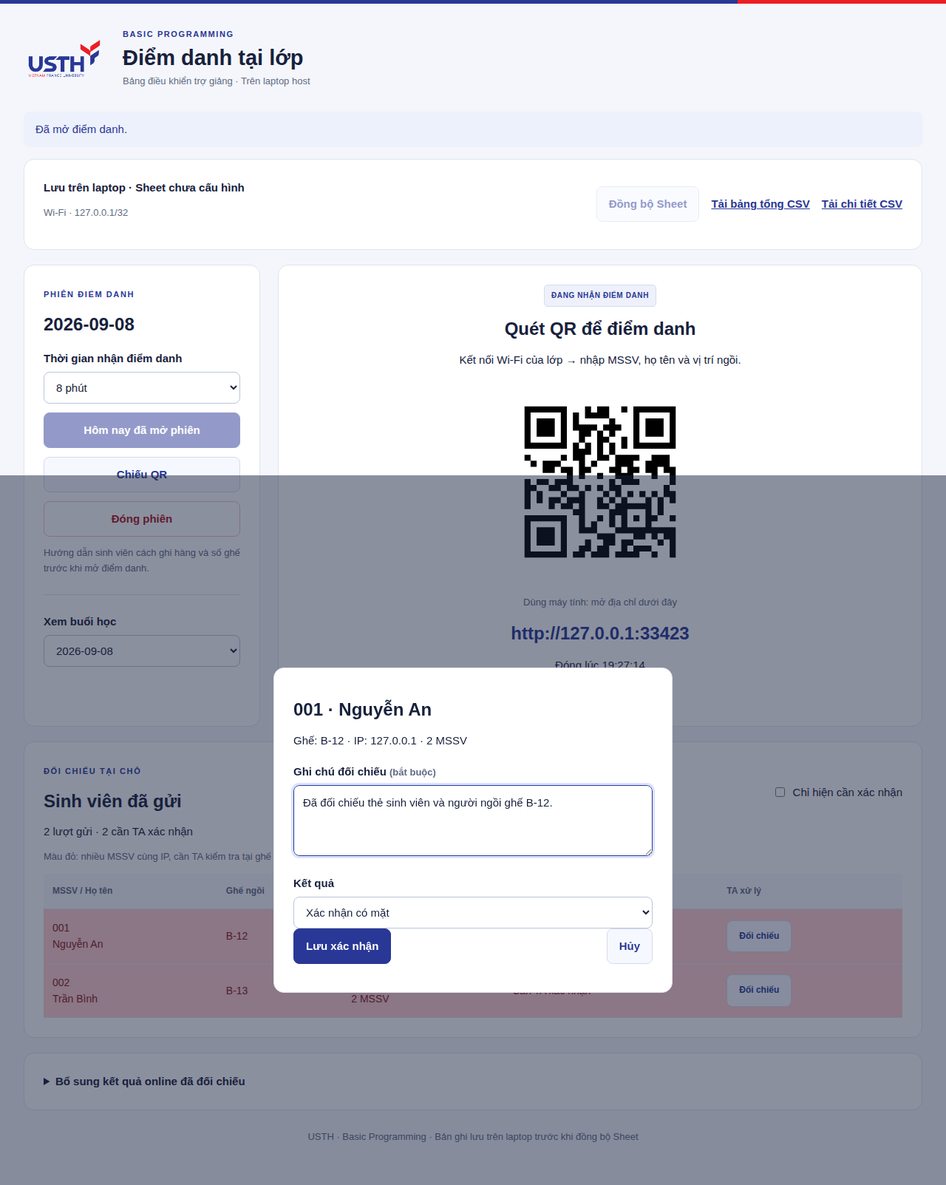
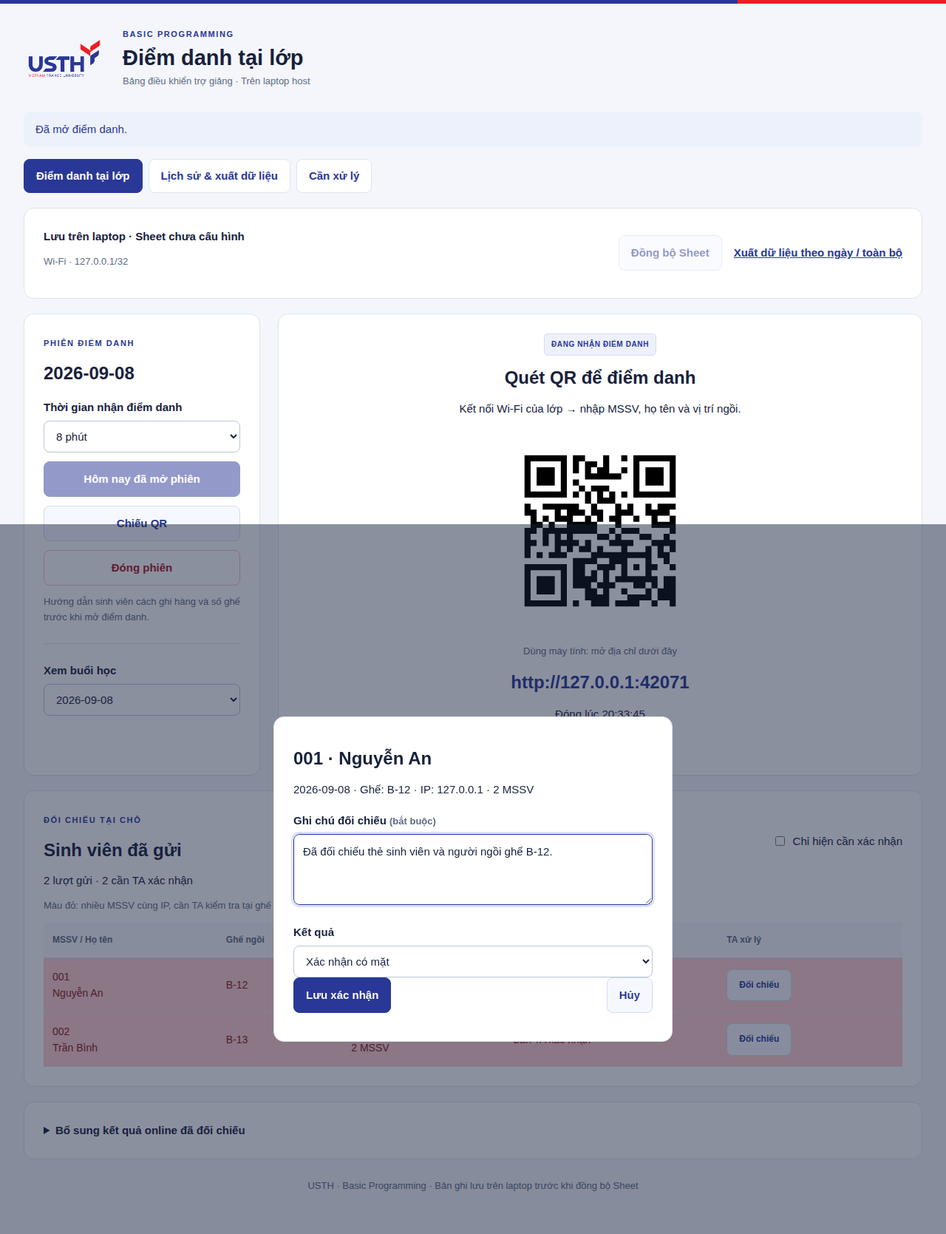
Add daily attendance exports and a dedicated review screen

diff --git a/web/lan-public/admin.js b/web/lan-public/admin.js
@@ -1,20 +1,66 @@
 'use strict';
-const $=id=>document.getElementById(id);let dashboard,selected='',entries=[],reviewing,busy=false,loadedURL='';
+const $=id=>document.getElementById(id);
+let dashboard,selected='',entries=[],reviewing,busy=false,refreshQueued=false,loadedURL='',screen='attendance';
 function notice(text,error=false){$('notice').textContent=text;$('notice').className=error?'notice error':'notice';}
 async function api(url,data){const response=await fetch(url,{cache:'no-store',signal:AbortSignal.timeout(20000),...(data?{method:'POST',headers:{'Content-Type':'application/json','X-CSRF-Token':dashboard?.csrf||''},body:JSON.stringify(data)}:{})});const body=await response.json();if(!response.ok)throw Error(body.message||'Không xử lý được yêu cầu.');return body;}
 function active(s){return s&&s.mode==='OFFLINE'&&!s.closed_at&&s.ends_at>dashboard.serverTime;}
-function project(){document.body.classList.add('projecting');$('exit-project').hidden=false;window.scrollTo(0,0);}
-function renderEntries(){
-  $('entries').replaceChildren();const pending=entries.filter(e=>e.status==='PENDING').length;
-  $('review-summary').textContent=`${entries.length} lượt gửi · ${pending} cần TA xác nhận`;
-  for(const entry of entries.filter(e=>!$('only-pending').checked||e.status==='PENDING')){
-    const tr=document.createElement('tr');if(entry.status==='PENDING')tr.className='flagged';
-    for(const value of [entry.student_id+'\n'+entry.name,entry.seat,entry.ip+'\n'+entry.peers+' MSSV',entry.statusLabel]){const td=document.createElement('td');td.textContent=value;tr.append(td);}
-    const td=document.createElement('td'),button=document.createElement('button');button.className='secondary';button.textContent='Đối chiếu';button.addEventListener('click',()=>{
-      reviewing=entry;$('review-title').textContent=entry.student_id+' · '+entry.name;$('review-detail').textContent='Ghế: '+entry.seat+' · IP: '+entry.ip+' · '+entry.peers+' MSSV';$('review-note').value=entry.review_note;$('review-result').value=entry.status==='REJECTED'?'REJECTED':'CONFIRMED';$('review-error').textContent='';$('review-dialog').showModal();
-    });td.append(button);tr.append(td);$('entries').append(tr);
+function showScreen(){
+  const next=location.hash.slice(1);screen=['attendance','history','issues'].includes(next)?next:'attendance';
+  for(const panel of document.querySelectorAll('[data-screen]'))panel.hidden=panel.dataset.screen!==screen;
+  for(const link of document.querySelectorAll('.screen-nav a')){if(link.hash==='#'+screen)link.setAttribute('aria-current','page');else link.removeAttribute('aria-current');}
+  if(screen!=='attendance'){document.body.classList.remove('projecting');$('exit-project').hidden=true;}
+}
+function project(){location.hash='attendance';showScreen();document.body.classList.add('projecting');$('exit-project').hidden=false;window.scrollTo(0,0);}
+function openReview(entry){
+  reviewing=entry;$('review-title').textContent=entry.student_id+' · '+entry.name;
+  $('review-detail').textContent=entry.date+' · Ghế: '+entry.seat+' · IP: '+entry.ip+' · '+entry.peers+' MSSV';
+  $('review-note').value=entry.review_note;$('review-result').value=entry.status==='REJECTED'?'REJECTED':'CONFIRMED';$('review-error').textContent='';$('review-dialog').showModal();
+}
+function renderTable(id,rows,dated=false){
+  const table=$(id);table.replaceChildren();
+  for(const entry of rows){
+    const tr=document.createElement('tr');tr.dataset.entryId=entry.id;
+    if(entry.status==='PENDING')tr.className='flagged';else if(entry.status==='REJECTED')tr.className='rejected';
+    const values=[entry.student_id+'\n'+entry.name,entry.seat,entry.ip+'\n'+entry.peers+' MSSV',entry.statusLabel];
+    if(dated){values.unshift(entry.date);values.push(entry.reason?(entry.reason+(entry.review_note&&entry.review_note!==entry.reason?'\nGhi chú trước: '+entry.review_note:'')):(entry.review_note||'—'));}
+    for(const value of values){const td=document.createElement('td');td.textContent=value;tr.append(td);}
+    const td=document.createElement('td'),button=document.createElement('button');button.className='secondary';button.textContent='Đối chiếu';button.addEventListener('click',()=>openReview(entry));td.append(button);tr.append(td);table.append(tr);
   }
-  if(!entries.length){const tr=document.createElement('tr'),td=document.createElement('td');td.colSpan=5;td.textContent='Chưa có lượt gửi trong phiên này.';tr.append(td);$('entries').append(tr);}
+  if(!rows.length){const tr=document.createElement('tr'),td=document.createElement('td');td.colSpan=dated?7:5;td.textContent='Không có bản ghi phù hợp.';tr.append(td);table.append(tr);}
+}
+function renderEntries(){
+  $('review-summary').textContent=`${entries.length} lượt gửi · ${entries.filter(e=>e.status==='PENDING').length} cần TA xác nhận`;
+  renderTable('entries',entries.filter(e=>!$('only-pending').checked||e.status==='PENDING'));
+}
+function fillDates(id){
+  const select=$(id),dates=[...new Set(dashboard.sessions.map(s=>s.date))].sort().reverse(),key=dates.join(',');
+  if(select.dataset.dates===key)return;
+  const previous=select.value;select.replaceChildren(...['',...dates].map(date=>{const option=document.createElement('option');option.value=date;option.textContent=date||'Tất cả các ngày';return option;}));
+  select.value=dates.includes(previous)?previous:'';select.dataset.dates=key;
+}
+function downloadLink(id,url){
+  const link=$(id);if(url){link.href=url;link.removeAttribute('aria-disabled');}else{link.removeAttribute('href');link.setAttribute('aria-disabled','true');}
+}
+function markLoading(){
+  if(screen==='history'){for(const id of ['history-summary-export','history-detail-export'])downloadLink(id);$('history-summary').textContent='Đang tải dữ liệu…';}
+  if(screen==='issues'){downloadLink('issues-export');$('issues-summary').textContent='Đang tải danh sách…';}
+}
+async function refreshReports(){
+  fillDates('history-date');fillDates('issues-date');
+  if(screen==='history'){
+    const date=$('history-date').value,query=new URLSearchParams({date}).toString(),data=await api('/api/history?'+query);
+    if(screen!=='history'||date!==$('history-date').value)return;
+    renderTable('history-entries',data.entries,true);
+    $('history-summary').textContent=(date||'Tất cả các ngày')+' · '+data.entries.length+' lượt gửi offline · '+new Set(data.entries.map(e=>e.student_id)).size+' MSSV';
+    downloadLink('history-summary-export','/api/export.csv?'+query);downloadLink('history-detail-export','/api/detail.csv?'+query);
+  }else if(screen==='issues'){
+    const date=$('issues-date').value,status=$('issues-status').value,query=new URLSearchParams({date,status}).toString(),data=await api('/api/issues?'+query);
+    if(screen!=='issues'||date!==$('issues-date').value||status!==$('issues-status').value)return;
+    renderTable('issues-entries',data.entries,true);
+    $('issues-pending').textContent=data.counts.pending+' chờ đối chiếu';$('issues-rejected').textContent=data.counts.rejected+' không hợp lệ';
+    $('issues-summary').textContent=(date||'Tất cả các ngày')+' · '+data.entries.length+' bản ghi đang hiển thị · '+new Set(data.entries.map(e=>e.student_id)).size+' MSSV';
+    downloadLink('issues-export','/api/issues.csv?'+query);
+  }
 }
 async function refresh(){
   dashboard=await api('/api/dashboard');$('today').textContent=dashboard.today;$('online-date').value||=dashboard.today;
@@ -29,16 +75,20 @@ async function refresh(){
   const sync=dashboard.sync;$('sync').disabled=!sync.enabled||sync.busy;
   $('sync-state').textContent=!sync.enabled?'Lưu trên laptop · Sheet chưa cấu hình':sync.error?'Sheet chưa đồng bộ được · dữ liệu đã lưu trên laptop':sync.pending?'Đang chờ đồng bộ Sheet':'Sheet đã đồng bộ';
   $('network').textContent=dashboard.network+' · '+dashboard.cidrs.join(', ');
-  entries=selected?(await api('/api/entries?session='+encodeURIComponent(selected))).entries:[];renderEntries();
+  if(screen==='attendance'){entries=selected?(await api('/api/entries?session='+encodeURIComponent(selected))).entries:[];renderEntries();}
+  await refreshReports();
 }
-async function action(fn){if(busy)return;busy=true;try{await fn();await refresh();}catch(error){notice(error.message,true);}finally{busy=false;}}
+async function action(fn){if(busy)return;busy=true;try{await fn();await refresh();}catch(error){notice(error.message,true);}finally{busy=false;if(refreshQueued){refreshQueued=false;requestRefresh();}}}
+function requestRefresh(){markLoading();if(busy){refreshQueued=true;return;}void action(async()=>{});}
 $('open').addEventListener('click',()=>action(async()=>{const result=await api('/api/sessions',{minutes:Number($('minutes').value)});selected=result.session.id;await refresh();notice('Đã mở điểm danh.');project();}));
 $('close').addEventListener('click',()=>action(async()=>{await api('/api/sessions/'+selected+'/close',{});notice('Đã đóng phiên điểm danh.');}));
 $('project').addEventListener('click',project);$('exit-project').addEventListener('click',()=>{document.body.classList.remove('projecting');$('exit-project').hidden=true;});
-$('session').addEventListener('change',()=>action(async()=>{selected=$('session').value;}));$('only-pending').addEventListener('change',renderEntries);
+$('session').addEventListener('change',()=>{selected=$('session').value;requestRefresh();});$('only-pending').addEventListener('change',renderEntries);
+for(const id of ['history-date','issues-date','issues-status'])$(id).addEventListener('change',requestRefresh);
+window.addEventListener('hashchange',()=>{showScreen();requestRefresh();});
 $('sync').addEventListener('click',()=>action(async()=>{await api('/api/sync',{});notice('Đã yêu cầu đồng bộ Sheet.');}));
 $('cancel-review').addEventListener('click',()=>$('review-dialog').close());
 $('review-form').addEventListener('submit',async event=>{event.preventDefault();$('save-review').disabled=true;try{await api('/api/entries/'+reviewing.id+'/review',{review:$('review-result').value,note:$('review-note').value,peers:reviewing.peers});$('review-dialog').close();await refresh();notice('Đã lưu kết quả đối chiếu của TA.');}catch(error){$('review-error').textContent=error.message;}finally{$('save-review').disabled=false;}});
 $('import-roster').addEventListener('click',()=>action(async()=>{const file=$('roster').files[0];if(!file)throw Error('Chọn file CSV danh sách lớp.');const result=await api('/api/roster',{csv:await file.text()});notice('Đã nhập '+result.count+' sinh viên.');}));
 $('import-online').addEventListener('click',()=>action(async()=>{const result=await api('/api/online',{date:$('online-date').value,list:$('online-list').value,evidence:$('online-evidence').value});notice('Đã bổ sung '+result.count+' kết quả online.');}));
-void action(async()=>{});setInterval(()=>{if(!busy&&!$('review-dialog').open)void action(async()=>{});},10000);
+showScreen();requestRefresh();setInterval(()=>{if(!busy&&!$('review-dialog').open)requestRefresh();},10000);

diff --git a/web/lan-public/admin.html b/web/lan-public/admin.html
@@ -1,11 +1,23 @@
 <!doctype html><html lang="vi"><head><meta charset="utf-8"><meta name="viewport" content="width=device-width,initial-scale=1"><title>TA · BP Attendance · USTH</title><link rel="stylesheet" href="/style.css"><script src="/qr.js" defer></script><script src="/admin.js" defer></script></head>
 <body><main><header><img src="/assets/usth-logo.png" alt="USTH — Vietnam France University"><div><span class="eyebrow">BASIC PROGRAMMING</span><h1>Điểm danh tại lớp</h1><p class="muted">Bảng điều khiển trợ giảng · Trên laptop host</p></div><button id="exit-project" class="secondary" hidden>Về bảng điều khiển</button></header>
 <div id="notice" role="status" aria-live="polite"></div>
-<div class="controls card status-bar"><div><strong id="sync-state">Đang kết nối…</strong><p id="network" class="muted"></p></div><div class="actions"><button id="sync" class="secondary">Đồng bộ Sheet</button><a href="/api/export.csv">Tải bảng tổng CSV</a><a href="/api/detail.csv">Tải chi tiết CSV</a></div></div>
+<nav class="screen-nav controls" aria-label="Quản lý điểm danh"><a href="#attendance" aria-current="page">Điểm danh tại lớp</a><a href="#history">Lịch sử &amp; xuất dữ liệu</a><a href="#issues">Cần xử lý</a></nav>
+<div class="controls card status-bar"><div><strong id="sync-state">Đang kết nối…</strong><p id="network" class="muted"></p></div><div class="actions"><button id="sync" class="secondary">Đồng bộ Sheet</button><a href="#history">Xuất dữ liệu theo ngày / toàn bộ</a></div></div>
+<div id="screen-attendance" data-screen="attendance">
 <div class="layout"><section class="card controls"><span class="eyebrow">PHIÊN ĐIỂM DANH</span><h2 id="today">Buổi học hôm nay</h2><label for="minutes">Thời gian nhận điểm danh</label><select id="minutes"><option value="5">5 phút</option><option value="8" selected>8 phút</option><option value="10">10 phút</option><option value="15">15 phút</option><option value="30">30 phút</option></select><button id="open">Mở QR điểm danh</button><button id="project" class="secondary" hidden>Chiếu QR</button><button id="close" class="danger" disabled>Đóng phiên</button><p class="muted">Hướng dẫn sinh viên cách ghi hàng và số ghế trước khi mở điểm danh.</p><hr><label for="session">Xem buổi học</label><select id="session"></select></section>
 <section class="card projector"><span class="badge" id="session-state">CHƯA MỞ PHIÊN</span><h2>Quét QR để điểm danh</h2><p>Kết nối Wi-Fi của lớp → nhập MSSV, họ tên và vị trí ngồi.</p><div id="qr"></div><p class="muted">Dùng máy tính: mở địa chỉ dưới đây</p><strong id="student-url" class="student-url"></strong><p id="session-end"></p><strong id="count" class="count">0 sinh viên</strong></section></div>
 <section class="card controls"><div class="section-top"><div><span class="eyebrow">ĐỐI CHIẾU TẠI CHỖ</span><h2>Sinh viên đã gửi</h2></div><label class="checkbox"><input type="checkbox" id="only-pending"> Chỉ hiện cần xác nhận</label></div><p id="review-summary"></p><p class="muted">Màu đỏ: nhiều MSSV cùng IP, cần TA kiểm tra tại ghế ngồi. Cùng IP có thể do mạng dùng chung; đây là cờ đối chiếu.</p><div class="table-wrap"><table><thead><tr><th>MSSV / Họ tên</th><th>Ghế ngồi</th><th>IP / Số MSSV</th><th>Trạng thái</th><th>TA xử lý</th></tr></thead><tbody id="entries"></tbody></table></div></section>
 <details class="card controls"><summary>Bổ sung kết quả online đã đối chiếu</summary><p>Nhập danh sách lớp có email trước khi bổ sung MSSV online. Phần offline không yêu cầu danh sách này.</p><label for="roster">CSV danh sách lớp · MSSV,Họ tên,Email trường</label><input type="file" id="roster" accept=".csv"><button id="import-roster" class="secondary">Nhập danh sách lớp</button><label for="online-date">Ngày học</label><input type="date" id="online-date"><label for="online-list">MSSV online · mỗi dòng một MSSV</label><textarea id="online-list" rows="4"></textarea><label for="online-evidence">Nguồn đối chiếu</label><input id="online-evidence" placeholder="Link kết quả Google Form, buổi học…"><button id="import-online" class="secondary">Bổ sung online</button></details>
+</div>
+<section id="screen-history" class="card controls" data-screen="history" hidden><span class="eyebrow">LƯU TRỮ THEO NGÀY HỌC</span><h2>Lịch sử &amp; xuất dữ liệu</h2><p>Chọn một ngày để xem và xuất riêng, hoặc chọn tất cả các ngày để lấy toàn bộ dữ liệu.</p>
+<div class="filters"><div><label for="history-date">Ngày học</label><select id="history-date"><option value="">Tất cả các ngày</option></select></div><div class="actions"><a id="history-summary-export" class="button-link" href="/api/export.csv">Tải bảng tổng CSV</a><a id="history-detail-export" class="button-link secondary" href="/api/detail.csv">Tải chi tiết offline CSV</a></div></div>
+<p id="history-summary" role="status"></p><p class="muted">Bảng dưới hiển thị lượt gửi offline. Bảng tổng CSV có cả kết quả online đã bổ sung. File theo ngày chỉ chứa kết quả của ngày đã chọn.</p>
+<div class="table-wrap"><table><thead><tr><th>Ngày học</th><th>MSSV / Họ tên</th><th>Ghế</th><th>IP / Số MSSV</th><th>Trạng thái</th><th>Ghi chú TA</th><th>TA xử lý</th></tr></thead><tbody id="history-entries"></tbody></table></div></section>
+<section id="screen-issues" class="card controls" data-screen="issues" hidden><span class="eyebrow">THEO DÕI CÁC TRƯỜNG HỢP CẦN XỬ LÝ</span><h2>Điểm danh cần xử lý</h2><p><strong>Chờ đối chiếu:</strong> bản ghi trùng IP cần kiểm tra. <strong>Không hợp lệ:</strong> TA đã đối chiếu và không xác nhận điểm danh.</p>
+<div class="filters"><div><label for="issues-date">Ngày học</label><select id="issues-date"><option value="">Tất cả các ngày</option></select></div><div><label for="issues-status">Trạng thái</label><select id="issues-status"><option value="ALL">Chờ đối chiếu + không hợp lệ</option><option value="PENDING">Chờ TA đối chiếu</option><option value="REJECTED">TA xác nhận không hợp lệ</option></select></div><a id="issues-export" class="button-link" href="/api/issues.csv">Tải danh sách CSV</a></div>
+<div class="review-totals"><span id="issues-pending" class="badge"></span><span id="issues-rejected" class="badge rejected-badge"></span></div><p id="issues-summary" role="status"></p>
+<div class="table-wrap"><table><thead><tr><th>Ngày học</th><th>MSSV / Họ tên</th><th>Ghế</th><th>IP / Số MSSV</th><th>Trạng thái</th><th>Lý do / ghi chú</th><th>TA xử lý</th></tr></thead><tbody id="issues-entries"></tbody></table></div>
+<p class="muted">Trùng IP là cờ đối chiếu. Mỗi bản ghi được xử lý riêng theo buổi học; xác nhận có mặt sẽ đưa bản ghi ra khỏi danh sách này, nhưng vẫn giữ trong lịch sử.</p></section>
 <footer>USTH · Basic Programming · Bản ghi lưu trên laptop trước khi đồng bộ Sheet</footer></main>
 <dialog id="review-dialog"><form id="review-form"><h2 id="review-title">Đối chiếu sinh viên</h2><p id="review-detail"></p><label for="review-note">Ghi chú đối chiếu <span class="muted">(bắt buộc)</span></label><textarea id="review-note" maxlength="500" rows="3" required placeholder="Đã kiểm tra thẻ và người ngồi tại ghế…"></textarea><label for="review-result">Kết quả</label><select id="review-result"><option value="CONFIRMED">Xác nhận có mặt</option><option value="REJECTED">Không xác nhận</option></select><div class="actions"><button id="save-review" type="submit">Lưu xác nhận</button><button id="cancel-review" class="secondary" type="button">Hủy</button></div><p id="review-error" class="error" role="status"></p></form></dialog>
 </body></html>

diff --git a/web/lan-public/style.css b/web/lan-public/style.css
@@ -1,1 +1,2 @@
 :root{--blue:#293896;--red:#ed1d24;--ink:#17213d;--muted:#606b83;--line:#dfe4ef;--paper:#f4f6fb}*{box-sizing:border-box}[hidden]{display:none!important}body{margin:0;background:var(--paper);color:var(--ink);font:15px/1.6 -apple-system,BlinkMacSystemFont,"Segoe UI",sans-serif}body:before{content:"";display:block;height:5px;background:linear-gradient(90deg,var(--blue) 0 78%,var(--red) 78%)}main{max-width:1280px;margin:auto;padding:28px 32px}header{display:flex;align-items:center;gap:24px;margin-bottom:26px}header img{width:110px;height:auto}header h1{margin:3px 0;line-height:1.25;font-size:29px}header p{margin:4px 0}header button{margin-left:auto}.eyebrow{color:var(--blue);font-size:11px;font-weight:750;letter-spacing:1.6px}h2{font-size:24px;line-height:1.35;margin:14px 0}p{margin:12px 0}.card{background:white;border:1px solid var(--line);border-radius:14px;padding:26px;margin-bottom:20px}.muted,small,footer{color:var(--muted);font-size:13px}footer{text-align:center;margin:26px 0}.badge{display:inline-block;font-size:10px;font-weight:750;letter-spacing:.6px;border:1px solid #d6dcf1;color:var(--blue);background:#eef1fb;border-radius:5px;padding:6px 9px}.layout{display:grid;grid-template-columns:320px minmax(0,1fr);gap:24px}.section-top,.status-bar,.actions{display:flex;gap:16px;align-items:center;justify-content:space-between;flex-wrap:wrap}.section-top h2{margin-bottom:0}label{display:block;font-weight:600;margin:18px 0 6px}input,select,textarea{font:inherit;width:100%;border:1px solid #bac4db;border-radius:8px;background:white;color:var(--ink);padding:11px 12px}input:focus,select:focus,textarea:focus{outline:3px solid #dce2ff;border-color:var(--blue)}small{display:block;margin-top:7px}button{font:inherit;font-weight:650;border:1px solid var(--blue);border-radius:8px;padding:11px 16px;background:var(--blue);color:white;cursor:pointer;margin:12px 0 0}button:hover{filter:brightness(.94)}button:disabled{opacity:.5;cursor:default}button.secondary{color:var(--blue);background:#f6f8ff;border-color:#d4dbed}button.danger{background:white;border-color:#ecc1c5;color:#ab1422}.layout .controls button{width:100%}a{color:var(--blue);font-weight:600}.actions button{margin:0}.notice{background:#edf1fc;color:var(--blue);padding:12px 16px;border-radius:8px;margin-bottom:16px}.notice:empty{display:none}.error{color:#a81820;background:#fff0f1}.student-page{max-width:610px}.student-page .card{padding:28px}.student-page #submit{width:100%;margin-top:24px}.student-page #reload{width:100%}.student-page header{gap:18px}.student-page header img{width:94px}.student-page h1{font-size:25px}.receipt{border-left:4px solid var(--blue);padding:4px 0 4px 20px}.receipt dl{display:grid;grid-template-columns:100px 1fr;gap:10px}.receipt dt{color:var(--muted)}.receipt dd{margin:0;font-weight:650;overflow-wrap:anywhere}.projector{text-align:center}.projector #qr{max-width:270px;margin:18px auto}.projector svg{display:block;width:100%;height:auto}.student-url{font-size:24px;color:var(--blue);word-break:break-all}.count{display:block;font-size:20px}.table-wrap{overflow:auto}table{width:100%;border-collapse:collapse;text-align:left;font-size:14px}th{font-size:12px;color:var(--muted);background:#f6f8fc;white-space:nowrap}th,td{padding:14px 12px;border-bottom:1px solid var(--line)}td{white-space:pre-line}td button{margin:0;font-size:12px;white-space:nowrap}tr.flagged td{background:#ffcccc;color:#871621}.checkbox{display:flex;align-items:center;font-weight:500;gap:8px}.checkbox input{width:auto}details summary{font-weight:650;cursor:pointer}hr{border:0;border-top:1px solid var(--line);margin:24px 0}dialog{width:min(540px,94vw);border:1px solid var(--line);border-radius:14px;padding:26px;color:var(--ink)}dialog::backdrop{background:#17213d80}.projecting .controls,.projecting footer,.projecting #notice{display:none}.projecting .layout{display:block}.projecting .projector{padding:20px 32px}.projecting .projector #qr{max-width:min(41vh,380px)}.projecting .student-url{font-size:32px}.projecting header{margin-bottom:15px}.projecting header img{width:85px}.projecting h2{margin:10px 0}.projecting .projector p{margin:8px 0}@media(max-width:750px){main{padding:22px 16px}.layout{display:block}header{gap:14px}header img{width:80px}header h1{font-size:23px}.card{padding:20px}.student-page .card{padding:23px}.student-page header img{width:78px}.student-page h1{font-size:22px}.student-url{font-size:20px}.projecting .student-url{font-size:22px}.actions{justify-content:flex-start;gap:12px}.actions a{font-size:13px}}
+.screen-nav{display:flex;gap:8px;margin:0 0 20px;flex-wrap:wrap}.screen-nav a{text-decoration:none;border:1px solid var(--line);border-radius:8px;background:white;padding:10px 16px}.screen-nav a[aria-current="page"]{color:white;background:var(--blue);border-color:var(--blue)}.filters{display:flex;gap:18px;align-items:flex-end;flex-wrap:wrap;margin:20px 0}.filters>div:first-child{min-width:210px}.filters label{margin-top:0}.button-link{display:inline-block;border:1px solid var(--blue);border-radius:8px;padding:10px 15px;text-decoration:none;background:var(--blue);color:white}.button-link.secondary{color:var(--blue);background:#f6f8ff;border-color:#d4dbed}.button-link[aria-disabled="true"]{opacity:.5;pointer-events:none}.review-totals{display:flex;gap:12px;flex-wrap:wrap;margin:22px 0}.rejected-badge{color:#a81820;background:#fff0f1;border-color:#ecc1c5}tr.rejected td{color:#8b1420;background:#fff0f1}tr.rejected td:first-child{border-left:3px solid var(--red)}#screen-history td:nth-child(6),#screen-issues td:nth-child(6){min-width:190px;max-width:310px;overflow-wrap:anywhere}.screen-nav a:focus-visible,.button-link:focus-visible{outline:3px solid #98a6ed;outline-offset:3px}@media(max-width:750px){.screen-nav{gap:6px}.screen-nav a{padding:9px 11px;font-size:13px}.filters>div{width:100%}.filters .actions{align-items:stretch}.button-link{font-size:13px}}

diff --git a/docs/TA-GUIDE.vi.md b/docs/TA-GUIDE.vi.md
@@ -44,10 +44,44 @@ Ghi chú bắt buộc. Kết quả được lưu trên laptop và đồng bộ s
 
 Dùng app để lưu xác nhận, không chỉnh trực tiếp trạng thái/màu trong tab do app đồng bộ. Danh sách chi tiết có ghi chú và thời gian; lịch sử các lần xác nhận lưu trong database và API TA `/api/audit`.
 
-## 4. Kết thúc buổi học
+## 4. Màn riêng cho các trường hợp cần xử lý
+
+Chọn **Cần xử lý** trên thanh điều hướng. Mặc định hiển thị các buổi đã lưu và hai nhóm:
+
+- **Chờ TA đối chiếu:** trùng IP, chưa kết luận điểm danh không hợp lệ.
+- **TA xác nhận không hợp lệ:** TA đã đối chiếu và chọn không xác nhận, có ghi chú lý do.
+
+Chọn **Ngày học** để xem riêng một buổi hoặc **Tất cả các ngày**. Chọn **Trạng thái** để lọc một nhóm hoặc cả hai. Mỗi dòng là một lượt điểm danh của một MSSV trong một buổi; một sinh viên có thể xuất hiện ở nhiều ngày. Bộ đếm hiển thị cả số bản ghi và số MSSV khác nhau.
+
+![Danh sách cần xử lý theo ngày và trạng thái](web-cases.png)
+
+Bấm **Đối chiếu** để xử lý ngay tại đây. Xác nhận có mặt sẽ đưa lượt đó ra khỏi danh sách cần xử lý, nhưng không xóa khỏi lịch sử. Nếu đổi lại quyết định sau đối chiếu, ghi chú mới và lịch sử xử lý được lưu như bình thường.
+
+**Tải danh sách CSV** xuất đúng ngày và trạng thái đang chọn, gồm ghế, IP, số MSSV cùng IP, lý do, ghi chú và thời gian. Ví dụ `BP_Review_2026-09-09_rejected.csv` chỉ gồm lượt TA không xác nhận trong ngày 09/09/2026. CSV không lưu màu; đọc cột trạng thái/lý do để xử lý.
+
+## 5. Tra cứu và xuất từng ngày hoặc toàn bộ
+
+Chọn **Lịch sử & xuất dữ liệu**. Dữ liệu được lưu theo ngày học trong cùng database, không cần đổi hoặc tạo lại database sau mỗi buổi.
+
+![Màn lịch sử và các nút xuất](web-history.png)
+
+1. Chọn ngày đã học trong **Ngày học**, hoặc **Tất cả các ngày**.
+2. Kiểm tra bảng bên dưới: ngày, MSSV/họ tên, ghế, IP, trạng thái và ghi chú TA.
+3. Chọn **Tải bảng tổng CSV** hoặc **Tải chi tiết offline CSV**.
+
+| Báo cáo | Theo một ngày | Toàn bộ |
+| --- | --- | --- |
+| Bảng tổng | MSSV có kết quả ngày đó, một cột ngày; gồm kết quả online đã nhập nếu có | Tất cả sinh viên và cột ngày học đã lưu |
+| Chi tiết offline | Các lượt gửi LAN trong ngày, gồm ghế/IP/trạng thái/ghi chú/giờ gửi | Toàn bộ lượt gửi LAN, mỗi bản ghi có cột ngày |
+
+Ví dụ: `BP_Attendance_2026-09-09.csv`, `BP_Offline_Check_2026-09-09.csv`; xuất toàn bộ có `_all.csv` trong tên. Ngày đã mở nhưng chưa có bản ghi sẽ xuất file chỉ có tiêu đề. Xuất file không đánh vắng các sinh viên chưa gửi.
+
+CSV là dữ liệu tại thời điểm tải. TA đối chiếu bổ sung sau đó thì tải lại để lấy kết quả mới. Các bộ lọc chỉ ảnh hưởng màn đang xem/file tải, không thu hẹp dữ liệu đồng bộ Sheet hoặc xóa các ngày khác. Hai màn này chỉ truy cập trên laptop host, không công khai danh sách sinh viên qua trang điểm danh.
+
+## 6. Kết thúc buổi học
 
 Phiên tự hết hạn hoặc TA bấm **Đóng phiên**. Mỗi ngày chỉ mở một phiên, vì vậy kiểm tra thời gian trước khi mở/đóng. Không xóa database để mở lại phiên.
 
-Xem trạng thái đồng bộ. Nếu Sheet chưa cấu hình/lỗi mạng, bản ghi vẫn ở laptop; tải **bảng tổng CSV** và **chi tiết CSV**. CSV không giữ màu, nhưng vẫn có trạng thái và số MSSV cùng IP. Muốn Excel có màu, xuất `.xlsx` từ Google Sheets sau khi đồng bộ.
+Xem trạng thái đồng bộ. Nếu Sheet chưa cấu hình/lỗi mạng, bản ghi vẫn ở laptop; vào **Lịch sử & xuất dữ liệu** để tải bảng tổng và chi tiết theo phạm vi cần dùng. CSV không giữ màu, nhưng vẫn có trạng thái và số MSSV cùng IP. Muốn Excel có màu, xuất `.xlsx` từ Google Sheets sau khi đồng bộ.
 
 Người host backup rồi dừng app theo [hướng dẫn host](HOST-QUICKSTART.vi.md). Các TA khác có thể xem Sheet theo quyền của lớp; thao tác quản lý app trên laptop host.

diff --git a/docs/WEB-VALIDATION.md b/docs/WEB-VALIDATION.md
@@ -11,7 +11,7 @@ BP_PLAYWRIGHT_MODULE=/path/to/playwright BP_CHROMIUM=/path/to/chromium node scri
 BP_BENCH_COUNTS=700 node scripts/bench-web.cjs data/reports/load-lan.json
 ```
 
-Validation run on 2026-09-08: **46 tests passed, 0 failed, 0 skipped**, plus the browser scenario and syntax check.
+Validation run on 2026-09-08: **51 tests passed, 0 failed, 0 skipped**, plus the browser scenario and syntax check.
 
 LAN-specific checks cover:
 
@@ -22,7 +22,9 @@ LAN-specific checks cover:
 - 700 anonymous submissions from one IP plus 700 retries, all accepted exactly once with all 700 peers flagged.
 - Sheets RAW writes into two owned tabs, red formatting on both summary and details, color removal after review, error retries and consistent revision snapshots during concurrent arrivals.
 - Production `web/server.cjs` terminated by SIGKILL and restarted against a temporary on-disk database: receipts, seats, IPs, reviews and flags survive; TA port cannot be reached using the laptop LAN address.
-- Browser: phone and laptop forms, QR projection, lost request before commit, lost response after commit, reload/retry recovery, both IP peers red, TA dialog, closed session, responsive layout and screenshots.
+- Daily/all reports: exact date boundaries, leading-zero MSSV, rejection notes and CSV escaping, unknown/malformed date/status queries rejected, empty-day headers, student access blocked, read-only exports and persistence after reopening the database.
+- Case lists: pending versus rejected filters by day/all dates, reasons and counts, confirmation removes only the relevant case while retaining history.
+- Browser: phone and laptop forms, QR projection, lost request before commit, lost response after commit, reload/retry recovery, both IP peers red, TA dialog, closed session, multi-day history, real daily/all CSV downloads, case filters and review, navigation/reload, responsive layout and screenshots.
 
 Tests also retain coverage of historical Google/rotating-code data paths, Caddy forwarding and SQLite backup. Those modules do not expose student login in the current production entry point. Fixture identity/data is confined to temporary test databases.
 

diff --git a/README.md b/README.md
@@ -53,6 +53,20 @@ App chọn IPv4 của card Wi-Fi tại mỗi lần khởi động; mặc định
 
 Ảnh chụp qua kiểm thử trình duyệt với dữ liệu hư cấu trong database tạm, không đưa vào database lớp. IP localhost/cổng ngẫu nhiên trong ảnh là địa chỉ của kiểm thử; sinh viên thật dùng IP Wi-Fi được máy host in ra.
 
+## Lịch sử theo ngày và danh sách cần xử lý
+
+Trang TA có ba màn: **Điểm danh tại lớp**, **Lịch sử & xuất dữ liệu**, **Cần xử lý**.
+
+- **Lịch sử & xuất dữ liệu:** chọn một ngày hoặc **Tất cả các ngày**, xem các lượt gửi offline và tải bảng tổng/chi tiết CSV. Bảng tổng theo ngày chỉ có một cột ngày và các MSSV có kết quả ngày đó; bản toàn bộ giữ đủ cột của các buổi. Tên file chứa ngày hoặc `all`.
+- **Cần xử lý:** danh sách các bản ghi chờ đối chiếu hoặc TA không xác nhận. Lọc theo ngày và trạng thái, xem ghế/IP/lý do, lưu đối chiếu trực tiếp hoặc tải danh sách CSV theo đúng bộ lọc.
+- Dữ liệu các ngày cùng lưu trong SQLite trên laptop, giữ nguyên khi khởi động lại. Xem/xuất không sửa dữ liệu gốc hoặc phạm vi đồng bộ Sheet. Bản ghi đã được xác nhận có mặt rời danh sách cần xử lý và vẫn có trong lịch sử.
+
+![Lịch sử và xuất dữ liệu theo ngày hoặc toàn bộ](docs/web-history.png)
+
+![Danh sách chờ đối chiếu và các lượt TA không xác nhận](docs/web-cases.png)
+
+CSV mở được bằng Excel nhưng không giữ màu; cột trạng thái, lý do và ghi chú vẫn được xuất đầy đủ trong báo cáo chi tiết/danh sách cần xử lý. Bảng tổng có cả kết quả online đã nhập; màn lịch sử và CSV chi tiết hiển thị lượt gửi offline của luồng LAN.
+
 ## Kết quả và xác nhận
 
 | Kết quả tại một ngày học | Ý nghĩa |

diff --git a/docs/WEB-SETUP.vi.md b/docs/WEB-SETUP.vi.md
@@ -32,6 +32,8 @@ App sử dụng scope Sheets, không yêu cầu tài khoản Google của sinh v
 
 Bản ghi `Cần TA xác nhận` được tô nền đỏ cả hàng chi tiết và ô ngày tương ứng ở bảng tổng. Xác nhận qua trang TA làm cập nhật trạng thái và bỏ màu đỏ ở lần đồng bộ kế tiếp. Việc định dạng dùng [Sheets batchUpdate / repeatCell](https://developers.google.com/workspace/sheets/api/samples/formatting), không tạo công thức từ nội dung sinh viên nhập.
 
+Các bộ lọc ngày/trạng thái trong app chỉ dùng để xem và tải CSV. Đồng bộ Sheet luôn lấy đầy đủ dữ liệu các buổi đã lưu.
+
 **Không sửa trực tiếp giá trị/màu trong hai tab này.** App ghi lại phần dữ liệu mình quản lý. Muốn ghi chú riêng hoặc hợp nhất Google Form online thủ công, tạo tab khác. Dùng nút **Đối chiếu** trong app để xác nhận và giữ lịch sử; không nhập xác nhận trực tiếp vào Sheet rồi chờ đồng bộ ngược.
 
 App gắn metadata sở hữu tab theo database. Nếu tên tab trùng nhưng không có metadata đúng, app từ chối ghi đè. Dùng tab được app tạo, file Sheet khác, hoặc khôi phục đúng database sở hữu tab; không xóa dữ liệu có sẵn để vượt kiểm tra.

diff --git a/docs/BRANDING.md b/docs/BRANDING.md
@@ -14,6 +14,6 @@ Chuẩn bị `playwright` hoặc `playwright-core` và Chromium; đặt đườn
 BP_PLAYWRIGHT_MODULE=/path/to/playwright BP_CHROMIUM=/path/to/chromium node scripts/test-web-ui.cjs
 ```
 
-Script dùng HTTP localhost trên hai cổng ngẫu nhiên và database tạm, tự dọn sau khi xong. Các ảnh hiện tại: `web-projector.png`, `web-admin.png`, `web-student-ready.png`, `web-student.png`, `web-student-desktop.png`, `web-review.png`.
+Script dùng HTTP localhost trên hai cổng ngẫu nhiên và database tạm, tự dọn sau khi xong. Các ảnh hiện tại: `web-projector.png`, `web-admin.png`, `web-student-ready.png`, `web-student.png`, `web-student-desktop.png`, `web-review.png`, `web-history.png`, `web-cases.png`.
 
 Không dùng QR/URL trong ảnh cho lớp: đó là địa chỉ kiểm thử localhost. App tại trường hiển thị IP Wi-Fi thật của laptop. Ảnh kiểm thử không chứng minh kết nối USTH hoặc đồng bộ Sheet thật. Database lớp không được điền dữ liệu thử.
